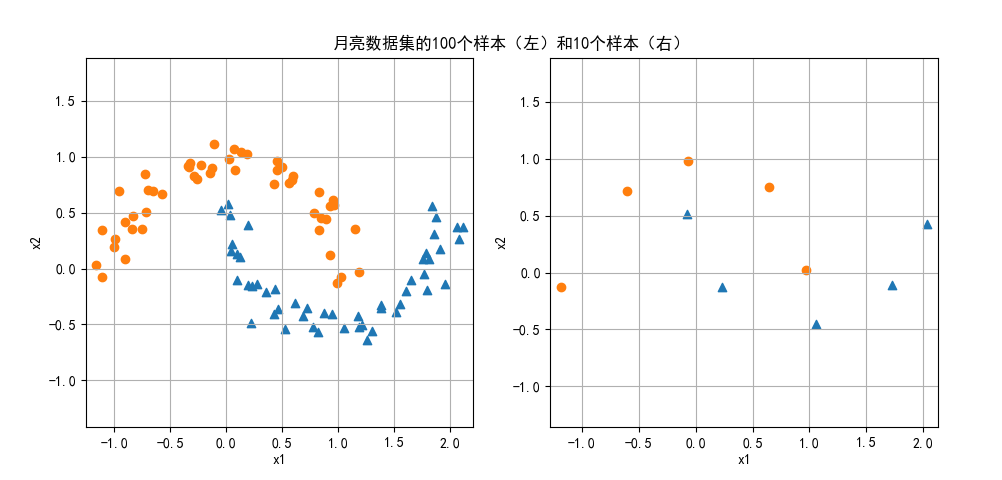
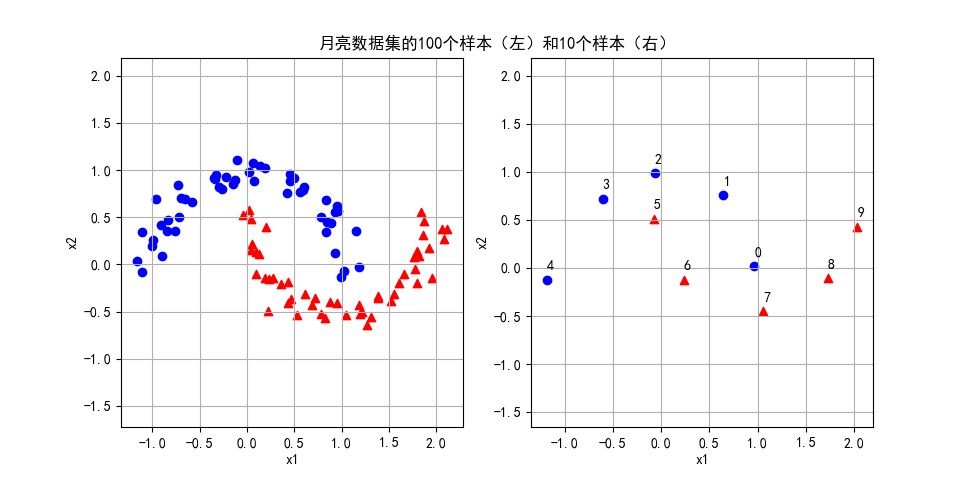
update

diff --git a/基础教程/A4-经典机器学习算法（更新中）/第5步 非线性分类算法/src/Code_5_11_4_moon.py b/基础教程/A4-经典机器学习算法（更新中）/第5步 非线性分类算法/src/Code_5_11_4_moon.py
@@ -35,14 +35,16 @@ def load_data(file_name, n_samples):
     return X, Y
 
 def set_ax(ax, scope):
-    ax.grid()
-    ax.axis('equal')
-    ax.set_xlabel('x1')
-    ax.set_ylabel('x2')
-    ax.set_xlim(scope[0], scope[1])
-    ax.set_ylim(scope[3], scope[4])
+    if (ax.name != '3d'):
+        ax.grid()
+        ax.axis('equal')
+    ax.set_xlabel("x1")
+    ax.set_ylabel("x2")
+    if (scope is not None):
+        ax.set_xlim(scope[0], scope[1])
+        ax.set_ylim(scope[3], scope[4])
 
-def show_samples(X_10, Y_10, X_100, Y_100):
+def show_samples(X_10, Y_10, X_100, Y_100, scope):
     # 基本绘图设置
     mpl.rcParams['font.sans-serif'] = ['SimHei']  
     mpl.rcParams['axes.unicode_minus']=False
@@ -51,55 +53,134 @@ def show_samples(X_10, Y_10, X_100, Y_100):
     plt.title(u"月亮数据集的100个样本（左）和10个样本（右）")
 
     ax1 = fig.add_subplot(121)
-    set_ax(ax1)
-    draw_2d(ax1, X_100, Y_100)
+    set_ax(ax1, scope)
+    draw_2d(ax1, X_100, Y_100, False)
 
     ax2 = fig.add_subplot(122)
-    set_ax(ax2)
-    draw_2d(ax2, X_10, Y_10)
+    set_ax(ax2, scope)
+    draw_2d(ax2, X_10, Y_10, True)
 
     plt.show()
 
-def draw_2d(ax, x, y):
-    ax.scatter(x[y==1,0], x[y==1,1], marker='^')
-    ax.scatter(x[y==-1,0], x[y==-1,1], marker='o')
-    for i in range(x.shape[0]):
-        ax.text(x[i,0], x[i,1]+0.1, str(i))
+def draw_2d(ax, x, y, display_text=True):
+    ax.scatter(x[y==1,0], x[y==1,1], marker='^', color='red')
+    ax.scatter(x[y==-1,0], x[y==-1,1], marker='o', color='blue')
+    if (display_text):
+        for i in range(x.shape[0]):
+            ax.text(x[i,0], x[i,1]+0.1, str(i))
 
+# 三维高斯图像
+def gaussian_kernal(gamma, landmark, weight, scope):
+    xx = np.linspace(scope[0], scope[1], scope[2])
+    yy = np.linspace(scope[3], scope[4], scope[5])
+    P,Q = np.meshgrid(xx, yy)
+    R = weight * np.exp(-gamma * ((P-landmark[0])**2 + (Q-landmark[1])**2))
+    return P,Q,R
 
-def show_3_results(X1, X2, y_pred, X, Y, scope):
+def gaussian_3d(gamma, center, scope):
+    xx = np.linspace(scope[0], scope[1], scope[2])
+    yy = np.linspace(scope[3], scope[4], scope[5])
+    P,Q = np.meshgrid(xx, yy)
+    #ax.plot_surface(P, Q, R1, cmap=cm.coolwarm)
+    R = np.exp(-gamma * ((P-center[0])**2/2 + (Q-center[1])**2/2))
+    return P, Q, R
+   
+
+# 显示 1 标准化后的样本 以及 2 分类结果
+def show_result_1(X1, X2, y_pred, X, Y, scope):
 
     # 基本绘图设置
     mpl.rcParams['font.sans-serif'] = ['SimHei']  
     mpl.rcParams['axes.unicode_minus']=False
     fig = plt.figure()
-    plt.title(u"月亮数据集分类结果")
+    plt.title(u"简化月亮数据集及分类结果")
     plt.grid()
     plt.axis('off')
 
     # 绘图
-    ax1 = fig.add_subplot(131)
+    ax1 = fig.add_subplot(121)
     set_ax(ax1, scope)
-    ax1.contourf(X1,X2, y_pred)
-    # 绘制原始样本点用于比对
     draw_2d(ax1, X, Y)
 
-    ax2 = fig.add_subplot(132)
+    ax2 = fig.add_subplot(122)
     set_ax(ax2, scope)
+    ax2.contourf(X1,X2, y_pred)
+    # 绘制原始样本点用于比对
+    draw_2d(ax2, X, Y)
+
+    plt.show()
+
+
+# 显示独立的二维高斯函数，和平面投影
+def show_result_2(model, X, Y, scope):
+    # 基本绘图设置
+    mpl.rcParams['font.sans-serif'] = ['SimHei']  
+    mpl.rcParams['axes.unicode_minus']=False
+    fig = plt.figure()
+    plt.title(u"简化月亮数据集 以独立样本为中心的高斯函数示意图")
+    plt.grid()
+    plt.axis('off')
+
+    ax1 = fig.add_subplot(121)
+    set_ax(ax1, scope)
+    ax2 = fig.add_subplot(122, projection='3d')
+    set_ax(ax2, scope)
+
+    R_pos = None
+    R_neg = None
+    for idx in model.support_:
+        P,Q,R = gaussian_3d(gamma, X[idx], scope)
+        if (Y[idx]==1):
+            c = 'red'
+        else:
+            c = 'blue'
+        ax1.contour(P,Q,R,2,zdir='z',offset=0,colors=c,linewidths=[0.5,0.2],linestyles='dashed')
+        
+        if (Y[idx]==1):
+            if (R_pos is None):
+                R_pos = R
+            else:
+                R_pos = np.maximum(R_pos, R)
+        else:   # -1
+            if (R_neg is None):
+                R_neg  = R
+            else:
+                R_neg = np.maximum(R_neg, R)
+    
+
+    draw_2d(ax1, X, Y)
+
+    ax2.plot_surface(P, Q, R_pos - R_neg, cmap=cm.coolwarm)
+
+    plt.show()
+
+
+def show_result_3(model, X, Y, scope):
+    # 基本绘图设置
+    mpl.rcParams['font.sans-serif'] = ['SimHei']  
+    mpl.rcParams['axes.unicode_minus']=False
+    fig = plt.figure()
+    plt.title(u"简化月亮数据集 以所有样本为地标的高斯核函数示意图")
+    plt.grid()
+    plt.axis('off')
+
     RR = None
     for i in range(np.sum(model.n_support_)):
-        P,Q,R = gaussian_kernal(
-            gamma, 
-            #model.support_vectors_[i],
-            X[i],
-            model.dual_coef_[0,i])
+        P,Q,R = gaussian_kernal(gamma, X[i], model.dual_coef_[0,i], scope)
         if (RR is None):
             RR = R
         else:
             RR += R
 
-    ax2.contour(P,Q,RR,zdir='z',offset=0,cmap=cm.coolwarm)                     #绘制xy面投影
-    draw_2d(ax2, X, Y)
+    ax1 = fig.add_subplot(121)
+    set_ax(ax1, scope)
+
+    ax1.contour(P,Q,RR,zdir='z',offset=0,cmap=cm.coolwarm)                     #绘制xy面投影
+    draw_2d(ax1, X, Y)
+
+    ax2 = fig.add_subplot(122, projection='3d')
+    set_ax(ax2, scope)
+    ax2.plot_surface(P, Q, RR, cmap=cm.coolwarm)
 
     plt.show()
 
@@ -112,7 +193,7 @@ if __name__=="__main__":
     file_name = "Data_moon_100.csv"
     X_100, Y_100 = load_data(file_name, 100)
 
-    #show_samples(X_10, Y_10, X_100, Y_100)
+    show_samples(X_10, Y_10, X_100, Y_100, None)
 
     ss = StandardScaler()
     X = ss.fit_transform(X_10)
@@ -131,5 +212,6 @@ if __name__=="__main__":
     scope = [-2,2,100,-2,2,100]
     X1, X2, y_pred = prediction(model, gamma, X, scope)
     
-    show_3_results(X1, X2, y_pred, X, Y_10, scope)
-
+    show_result_1(X1, X2, y_pred, X, Y_10, scope)
+    show_result_2(model, X, Y_10, scope)
+    show_result_3(model, X, Y_10, scope)

diff --git a/基础教程/A4-经典机器学习算法（更新中）/第5步 非线性分类算法/src/Code_5_11_2_gaussian.py b/基础教程/A4-经典机器学习算法（更新中）/第5步 非线性分类算法/src/Code_5_11_2_gaussian.py
@@ -10,22 +10,6 @@ def gaussian_2d(x, sigma, mu):
     f = np.exp(a) / (sigma * np.sqrt(2*np.pi))
     return f
 
-'''
-def gaussian_3d(ax):
-    xx = np.linspace(-5,5,100)
-    yy = np.linspace(-5,5,100)
-    P,Q = np.meshgrid(xx, yy)
-    R1 = np.exp(-(P*P + Q*Q))
-    #ax.plot_surface(P, Q, R1, cmap=cm.coolwarm)
-    R2 = np.exp(-(P-1)**2/2 - (Q-2)**2/2)
-    R = R1 + R2
-    #ax.plot_surface(P, Q, R, cmap=cm.coolwarm)
-
-    cset = ax.contour(P,Q,R,zdir='z',offset=0,cmap=cm.coolwarm)                     #绘制xy面投影
-    cset = ax.contour(P,Q,R,zdir='x',offset=-4,cmap = mpl.cm.winter)                 #绘制zy面投影
-    cset = ax.contour(P,Q,R,zdir='y',offset= 4,cmap =mpl.cm.winter)                  #绘制zx面投影
-'''
-
 # 验证fa·fb的积分值
 def f(x):
     sigma=1

diff --git a/基础教程/A4-经典机器学习算法（更新中）/第5步 非线性分类算法/src/Code_5_11_3_xor.py b/基础教程/A4-经典机器学习算法（更新中）/第5步 非线性分类算法/src/Code_5_11_3_xor.py
@@ -66,7 +66,6 @@ def show_result(X1, X2, y_pred, X_sample, Y):
 
     plt.show()
 
-
 def draw_2d(ax, x, y):
     ax.scatter(x[y==1,0], x[y==1,1], marker='^')
     ax.scatter(x[y==-1,0], x[y==-1,1], marker='o')
@@ -84,14 +83,6 @@ def K_matrix(X, L, gamma):
             K[i,j] = np.exp(-gamma * np.linalg.norm(X[i] - L[j])**2)
 
     return K
-
-def gaussian_kernal(gamma, landmark, weight):
-    xx = np.linspace(-2,2,100)
-    yy = np.linspace(-2,2,100)
-    P,Q = np.meshgrid(xx, yy)
-    R = weight * np.exp(-gamma * ((P-landmark[0])**2 + (Q-landmark[1])**2))
-    return P,Q,R
-
 
 if __name__=="__main__":
     # 生成原始样本

diff --git a/基础教程/A4-经典机器学习算法（更新中）/第5步 非线性分类算法/svm11-RBF核函数.md b/基础教程/A4-经典机器学习算法（更新中）/第5步 非线性分类算法/svm11-RBF核函数.md
@@ -83,11 +83,6 @@ $$
 f(x)=\exp \left ( -\frac{(x-\mu)^2}{2 \sigma^2} \right )
 $$
 
-二维高斯函数
-
-$$
-f(x,y)=\exp \left ( -\frac{(x-\mu_1)^2}{2 \sigma_1^2} - \frac{(y-\mu_2)^2}{2 \sigma_2^2} \right )
-$$
 
 
 
@@ -497,43 +492,76 @@ x2 = np.linspace(-1.5, 1.5, 10)
 
 <center>图 5.11.5 </center>
 
+在图 5.11.5 中，左子图有正负样本各 50 个，其中红色三角形为正类样本；右子图只取了正负样本各 5 个，可以看到它们都处于关键位置，仍可以代表整个数据集的形状轮廓。
 
-我们以 10 个样本为例，首先建立特征数据矩阵：
+
+我们以 10 个样本为例，首先做标准化（均值为 0 方差为 1），然后建立特征数据矩阵：
 
 $$
 特征数据矩阵=
 \begin{pmatrix}
-e^{-\gamma\parallel x_1 - x_1 \parallel^2} & e^{-\gamma\parallel x_1 - x_2 \parallel^2} & \cdots & e^{-\gamma\parallel x_1 - x_{10} \parallel^2}
+e^{-\gamma\parallel x_0 - x_0 \parallel^2} & e^{-\gamma\parallel x_0 - x_1 \parallel^2} & \cdots & e^{-\gamma\parallel x_0 - x_{9} \parallel^2}
 \\\\
-e^{-\gamma\parallel x_2 - x_1 \parallel^2} & e^{-\gamma\parallel x_2 - x_2 \parallel^2} & \cdots & e^{-\gamma\parallel x_2 - x_{10} \parallel^2}
-\\\\
-\vdots & \vdots &  \ddots & \vdots
-\\\\
-e^{-\gamma\parallel x_{10} - x_1 \parallel^2} & e^{-\gamma\parallel x_{10} - x_2 \parallel^2} & \cdots & e^{-\gamma\parallel x_{10} - x_{10} \parallel^2}
-\end{pmatrix}
-=
-\begin{pmatrix}
-1 & e^{-\gamma\parallel x_1 - x_2 \parallel^2} & \cdots & e^{-\gamma\parallel x_1 - x_{10} \parallel^2}
-\\\\
-e^{-\gamma\parallel x_2 - x_1 \parallel^2} & 1 & \cdots & e^{-\gamma\parallel x_2 - x_{10} \parallel^2}
+e^{-\gamma\parallel x_1 - x_0 \parallel^2} & e^{-\gamma\parallel x_1 - x_1 \parallel^2} & \cdots & e^{-\gamma\parallel x_2 - x_{9} \parallel^2}
 \\\\
 \vdots & \vdots &  \ddots & \vdots
 \\\\
-e^{-\gamma\parallel x_{10} - x_1 \parallel^2} & e^{-\gamma\parallel x_{10} - x_2 \parallel^2} & \cdots & 1
+e^{-\gamma\parallel x_9 - x_0 \parallel^2} & e^{-\gamma\parallel x_9 - x_1 \parallel^2} & \cdots & e^{-\gamma\parallel x_9 - x_9 \parallel^2}
 \end{pmatrix}
+\tag{20}
 $$
 
+然后仍然使用线性 SVM 分类器，验证新的特征矩阵是否可以线性可分。得到的打印输出如下：
 
-### 相关性的解释
+```
+权重: [[-1.16076927 -1.11328038 -0.65285093 -1.25970266 -1.10970314  1.05151307
+   1.12589867  0.82036897  1.03337237  0.87829645]]
+支持向量个数: [5 5]
+支持向量索引: [0 1 2 3 4 5 6 7 8 9]
+支持向量ay: [[-2.         -1.39209098 -0.09042443 -1.9120296  -1.13078953  2.
+   1.54903647  0.75518565  1.37140957  0.84970285]]
+准确率: 1.0
+```
 
-由于 K 函数的值与距离负相关，所以可以理解为两个样本的相关性。
+- 使用样本数据在训练好的模型上做预测的准确率为 1.0，表明分类正确。
+- 所有的样本点都是支持向量，正负类各 5 个。
+
+绘制可视化分类结果如图 5.11.6 所示，可以看到最关键的 0 号样本和 5 号样本，都处于正确的分类区中。
+
+<img src="./images/5-11-6.png" />
+
+<center>图 5.11.6 </center>
+
+
+在二维平面中，每个样本点都可以对有一个该样本点为中心的二维高斯函数，如式 21：
+
+二维高斯函数
+
+$$
+f(x,y)=\exp \left ( -\frac{(x-x_1)^2}{2 \sigma_1^2} - \frac{(y-x_2)^2}{2 \sigma_2^2} \right ) \tag{21}
+$$
+
+由此，我们可以绘制出 10 个样本点各自的高斯函数如图 5.11.7，其中左子图是在 x-y 平面上的投影，右子图是三维图像。左子图中，每个样本点都有一个“势力范围”，用两个同心圆表示，比如 1 号样本和 2 号样本距离较近，它们的相关性就就高，那它们的内积也就较大。3 号样本和 5 号样本虽然也比较近，但是分别属于不同的类别。
+
+<img src="./images/5-11-7.png" />
+
+<center>图 5.11.7 </center>
+
+接下来我们看看高斯核函数的效果，也就是不同样本的高斯函数的内积（相乘后再积分）。
+
+图 5.11.8 展示了所有样本点之间的高斯核函数的数值之和，形成一个凹凸不平的曲面，左子图是它的等高线，对比图 5.11.6 的右子图，可以看到二者完全吻合。
+
+从等高线图上，我们可以发现令人意想不到的问题：一般都会认为 2 号样本和 7 号样本是本类的核心，应该“地位较高”，但实际上 2 号样本处于负类等高线的边缘地带，“深入敌后”的 0 号样本和 5 号样本反而处于本方较高的位置。
+
+<img src="./images/5-11-8.png" />
+
+<center>图 5.11.8 </center>
 
 
 
 
 
 
-把所有的样本都看作是地标（landmark），构造10x10的矩阵，
 
 https://zhuanlan.zhihu.com/p/135898326
 
